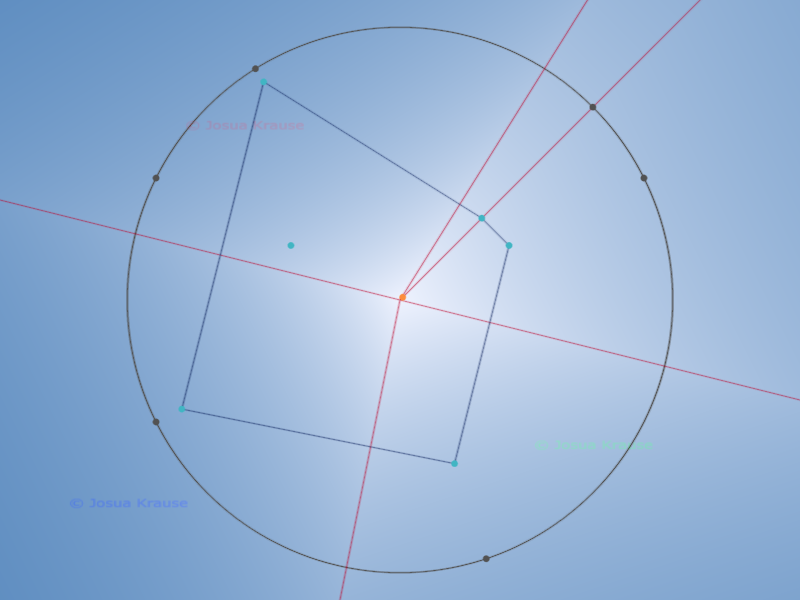
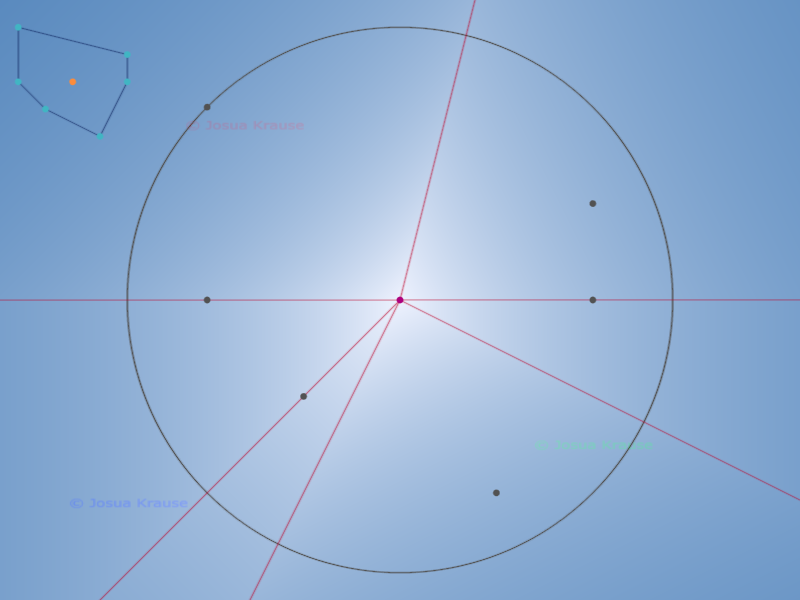
illustrate translation

diff --git a/js/app.js b/js/app.js
@@ -57,6 +57,7 @@ export default class App extends PixelCanvas {
         [0.3, 0.3],
         [-0.4, 0.2],
       ],
+      initRefPos: [0.01, 0.01],
       ...settings,
     };
   }
@@ -113,7 +114,7 @@ export default class App extends PixelCanvas {
     this.addValue('showCursor', 'uShowCursor', 'bool', false);
     this.addValue('unitCircle', 'uUnitCircle', 'bool', settings.unitCircle);
     this.addValue('convexHull', 'uConvexHull', 'bool', settings.convexHull);
-    this.addValue('refPosition', 'uRefPosition', '2d', [0.01, 0.01]);
+    this.addValue('refPosition', 'uRefPosition', '2d', settings.initRefPos);
     this.addValue('distanceFn', 'uDistanceFn', 'enum', distanceFn);
     this.addValue('correction', 'uCorrection', 'range', 2.5);
     this.addValue('points', 'uPoints', 'array2d', settings.points);

diff --git a/demo2.html b/demo2.html
@@ -93,8 +93,17 @@
       allowUnitCircle: true,
       convexHull: true,
       allowConvexHull: true,
-      distanceFn: DF_DOT,
+      distanceFn: DF_DOT_ADJ,
       metrics: [DF_DOT, DF_DOT_ADJ],
+      points: [
+        [-1.1, 0.6],
+        [-1.3, 0.7],
+        [-1.4, 0.8],
+        [-1.4, 1.0],
+        [-1.0, 0.9],
+        [-1.0, 0.8],
+      ],
+      initRefPos: [-1.2, 0.8],
     }).repaint();
   </script>
 </html>
